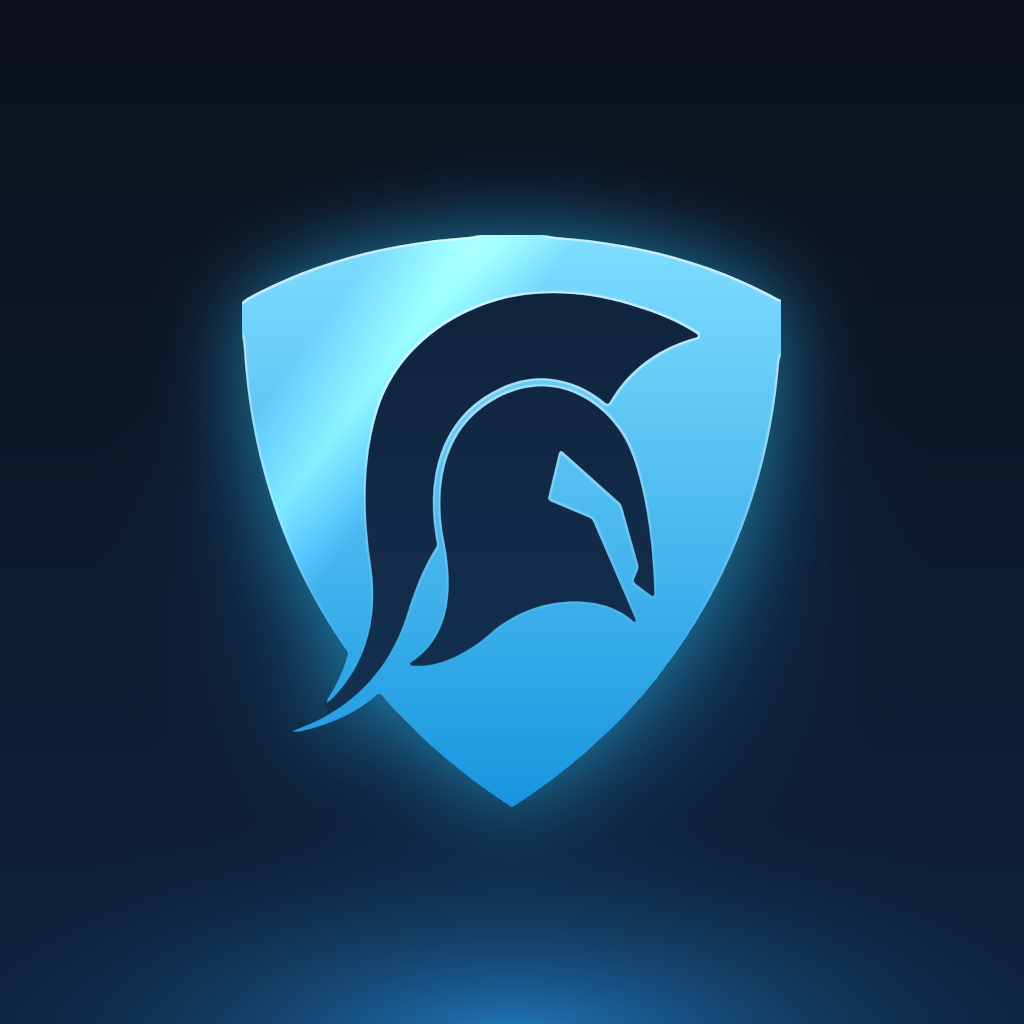
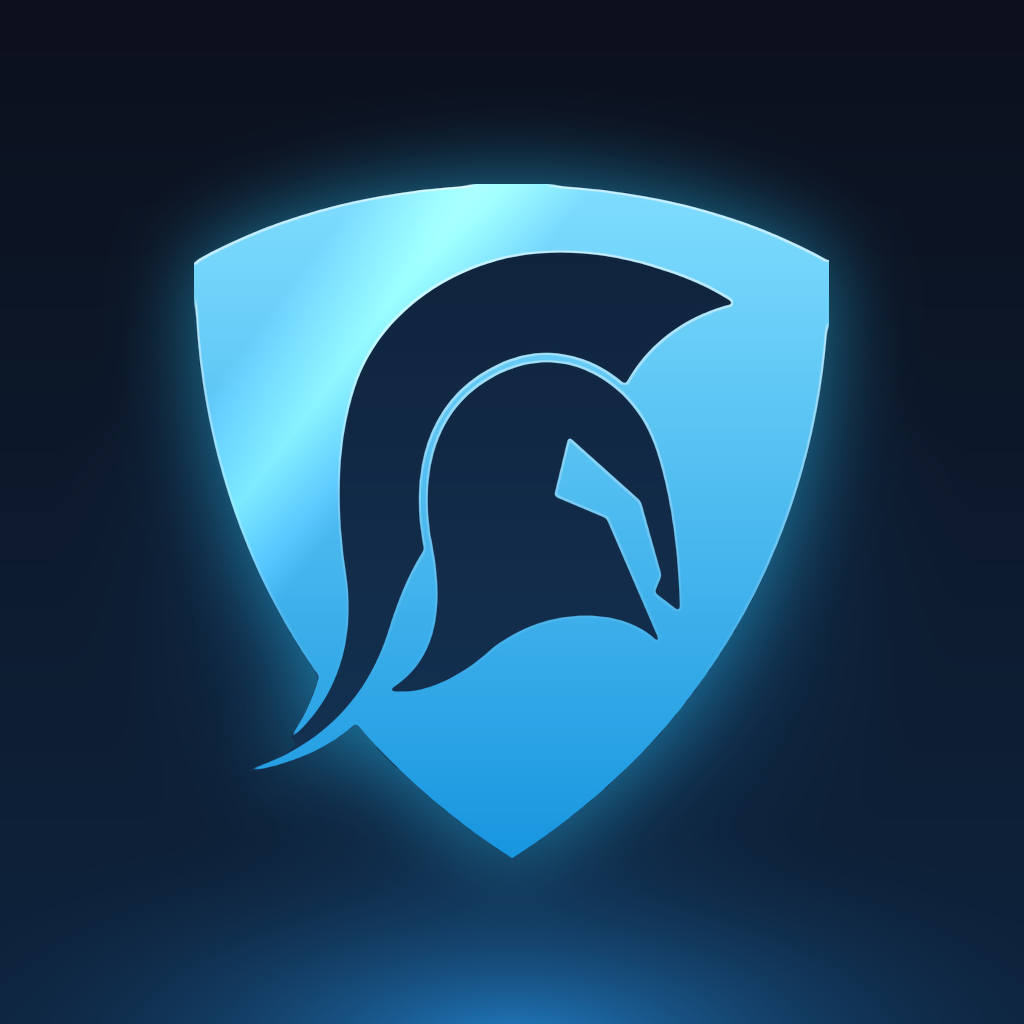
Ícono: escudo más grande
Claude-Session: https://claude.ai/code/session_01Ap9s35NhKbdW3Dyth6SLE7

Changed region(s): [[0.1562, 0.125, 0.8438, 0.8438]]

diff --git a/index.html b/index.html
@@ -9,9 +9,9 @@
 <meta name="mobile-web-app-capable" content="yes">
 <meta name="apple-mobile-web-app-status-bar-style" content="black-translucent">
 <meta name="apple-mobile-web-app-title" content="Action Leaders +">
-<link rel="manifest" href="/manifest.webmanifest?v=4">
-<link rel="icon" type="image/png" sizes="192x192" href="/icon-192.png?v=4">
-<link rel="apple-touch-icon" sizes="180x180" href="/apple-touch-icon.png?v=4">
+<link rel="manifest" href="/manifest.webmanifest?v=5">
+<link rel="icon" type="image/png" sizes="192x192" href="/icon-192.png?v=5">
+<link rel="apple-touch-icon" sizes="180x180" href="/apple-touch-icon.png?v=5">
 <link rel="preconnect" href="https://fonts.googleapis.com">
 <link rel="stylesheet" href="https://fonts.googleapis.com/css2?family=Libre+Baskerville:ital,wght@1,700&family=Bricolage+Grotesque:opsz,wght@12..96,600;12..96,800&family=Figtree:wght@400;500;600;700&family=Barlow+Condensed:wght@600;700&display=swap">
 <style>
@@ -2035,7 +2035,7 @@ window.addEventListener("fb-auth",e=>{location.reload()});
 })();
 </script>
 <script>
-(function(){var V="20261019114433";var busy=false,pend=null;
+(function(){var V="20261019115303";var busy=false,pend=null;
  function go(t){var u=location.pathname+"?v="+t+location.hash;try{location.replace(u)}catch(e){location.reload()}}
  function idle(){var sh=document.getElementById("sheet"),w=document.getElementById("wel");var a=document.activeElement;
   return (!sh||sh.hidden)&&(!w||w.hidden)&&!(a&&/INPUT|TEXTAREA|SELECT/.test(a.tagName))}

diff --git a/conoce.html b/conoce.html
@@ -5,7 +5,7 @@
 <meta name="description" content="Viaja más, gasta menos y crea un ingreso extra con una comunidad que te acompaña.">
 <meta name="theme-color" content="#08080c">
 <meta name="referrer" content="strict-origin-when-cross-origin">
-<link rel="icon" href="/icon-192.png?v=4">
+<link rel="icon" href="/icon-192.png?v=5">
 <link rel="preconnect" href="https://fonts.googleapis.com">
 <link rel="stylesheet" href="https://fonts.googleapis.com/css2?family=Libre+Baskerville:ital,wght@1,700&family=Bricolage+Grotesque:opsz,wght@12..96,700;12..96,800&family=Figtree:wght@400;500;600;700&display=swap">
 <style>
